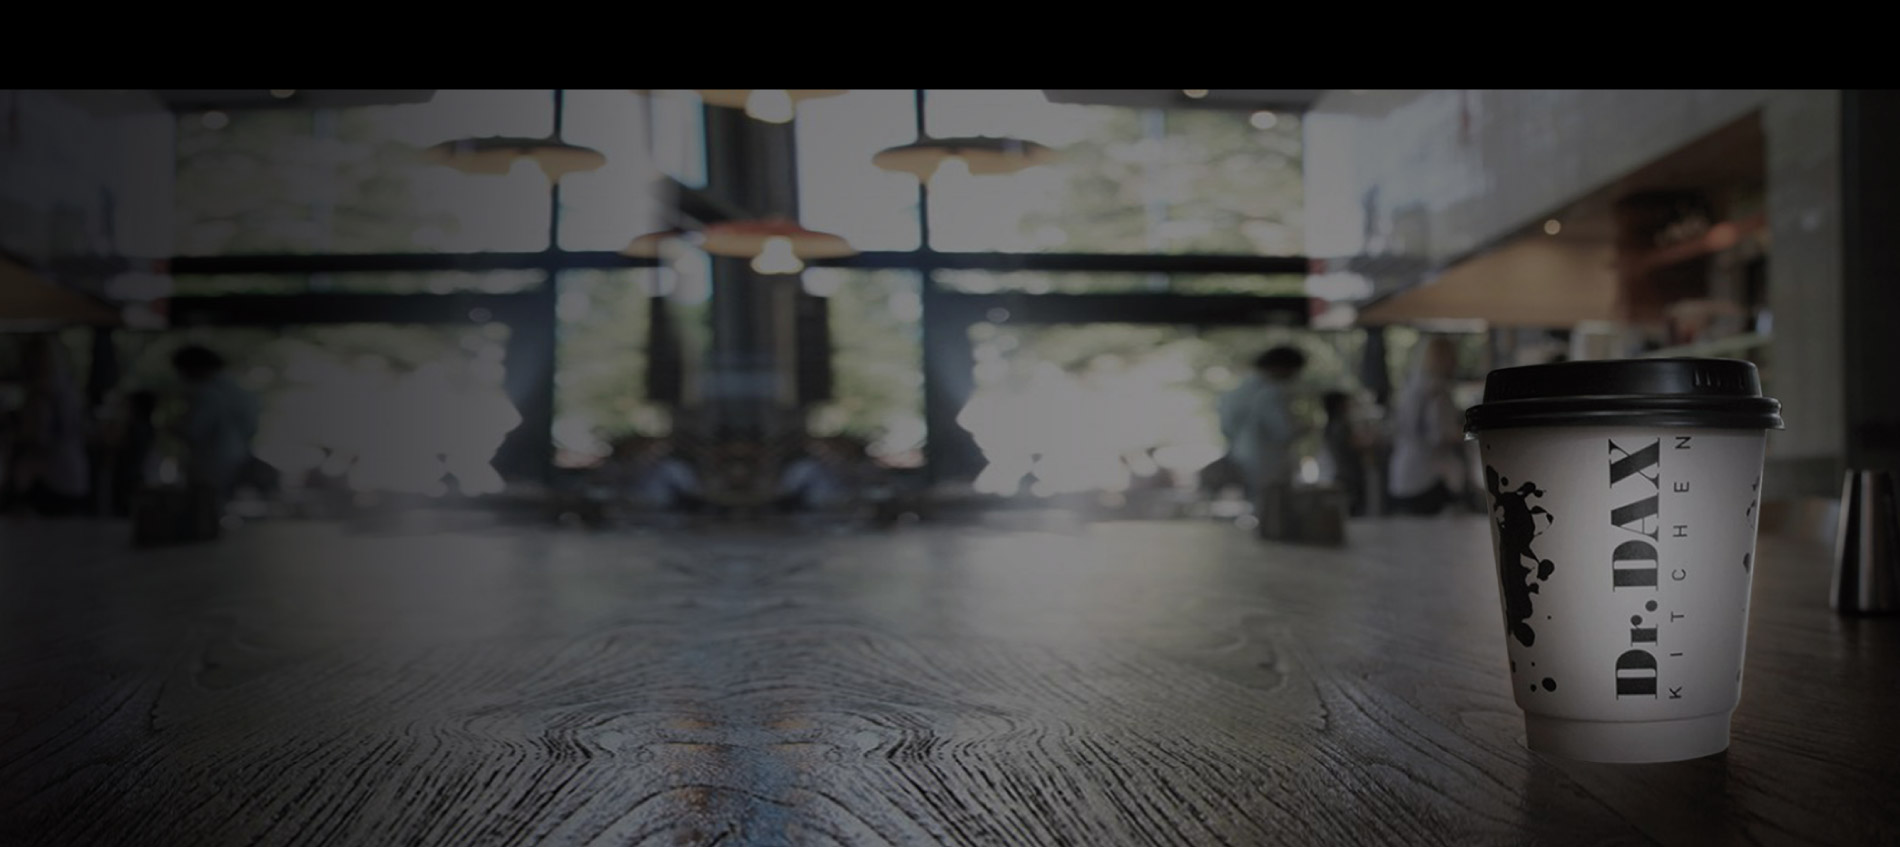
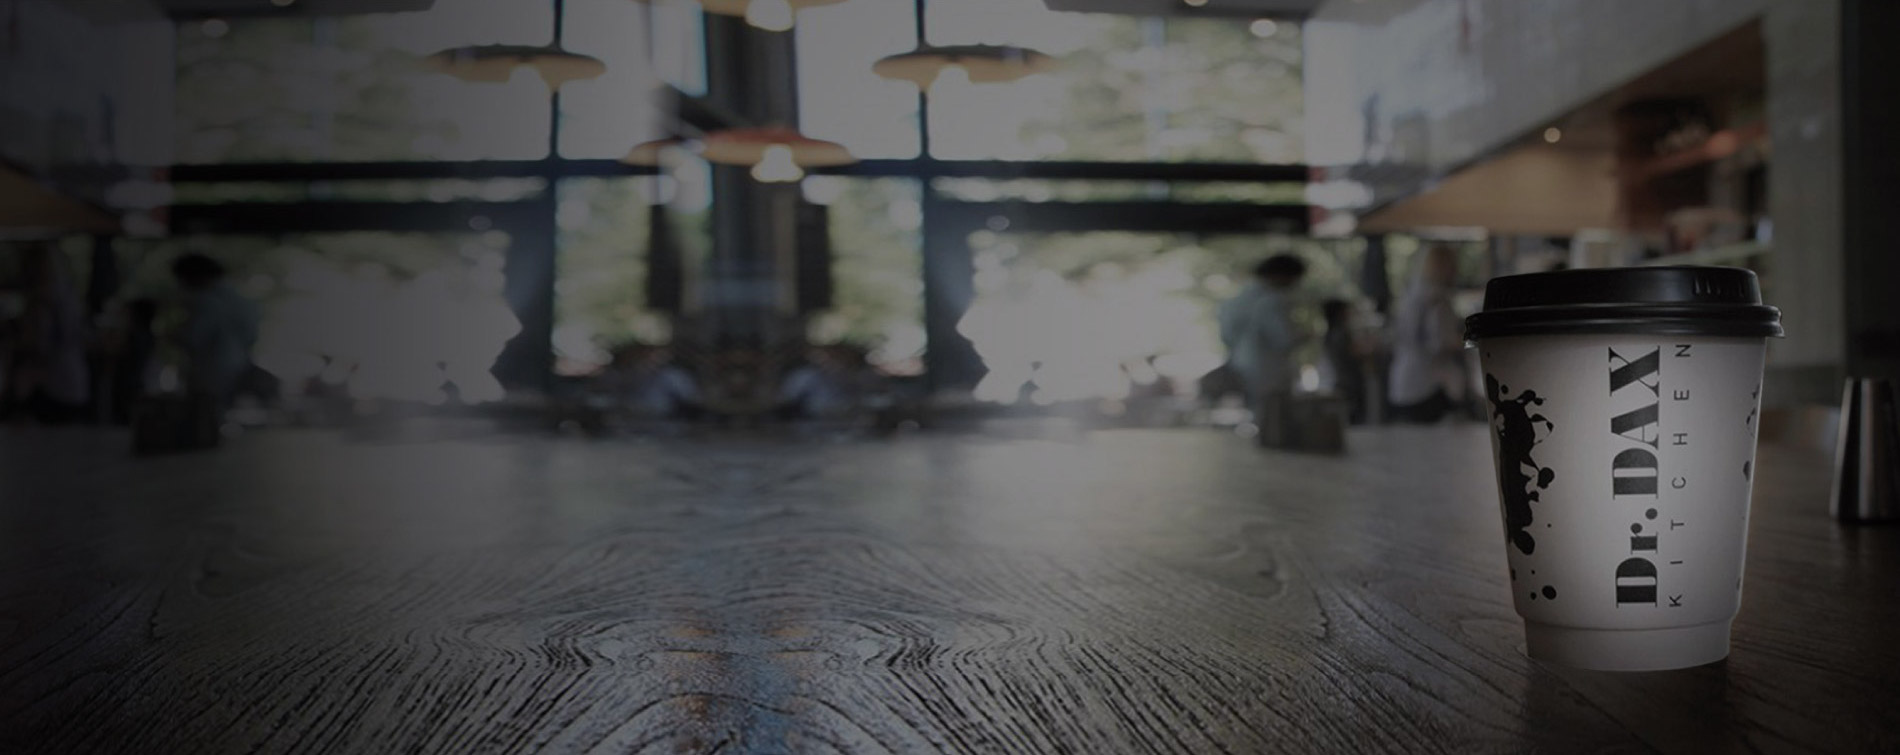
added an image

diff --git a/index.html b/index.html
@@ -22,7 +22,7 @@
     <main>
         <div>
             <h2 class="splashtext" >The flavour of nature</h2>
-            <img> <!--green overlay and background image-->
+            <img src="Images/INDEX/Index BG.jpg" class="splash-image">
         </div>
         <div class="sidebyside">
             <div class="one">

diff --git a/styles/layout.css b/styles/layout.css
@@ -119,3 +119,7 @@ div.index-menu-text > card.left{
 div.index-menu-text > card.right{
     grid-column: 5 / span 2;
 }
+
+.splash-image{
+    width: 100%;
+}
